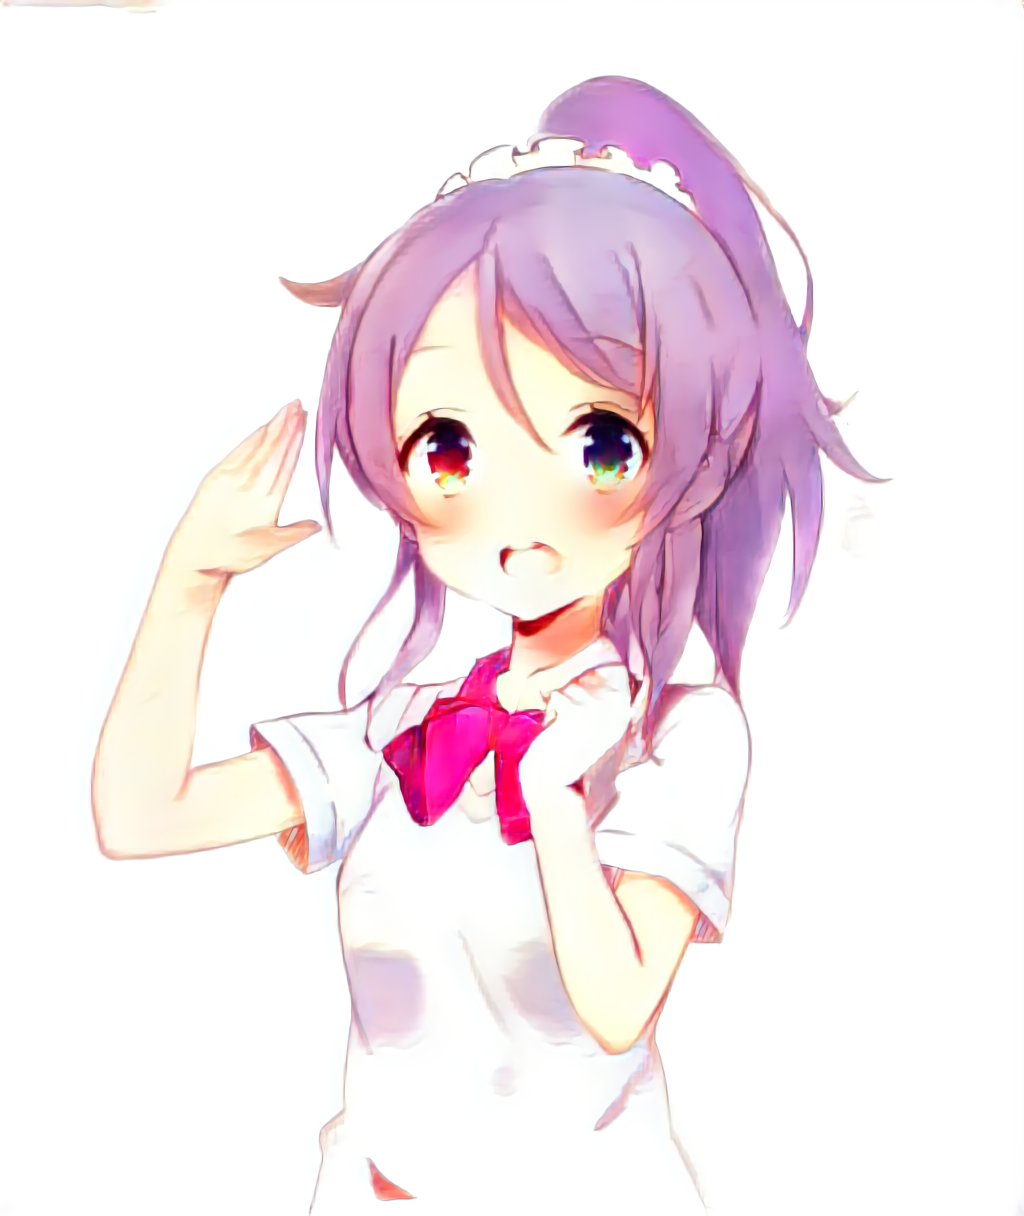
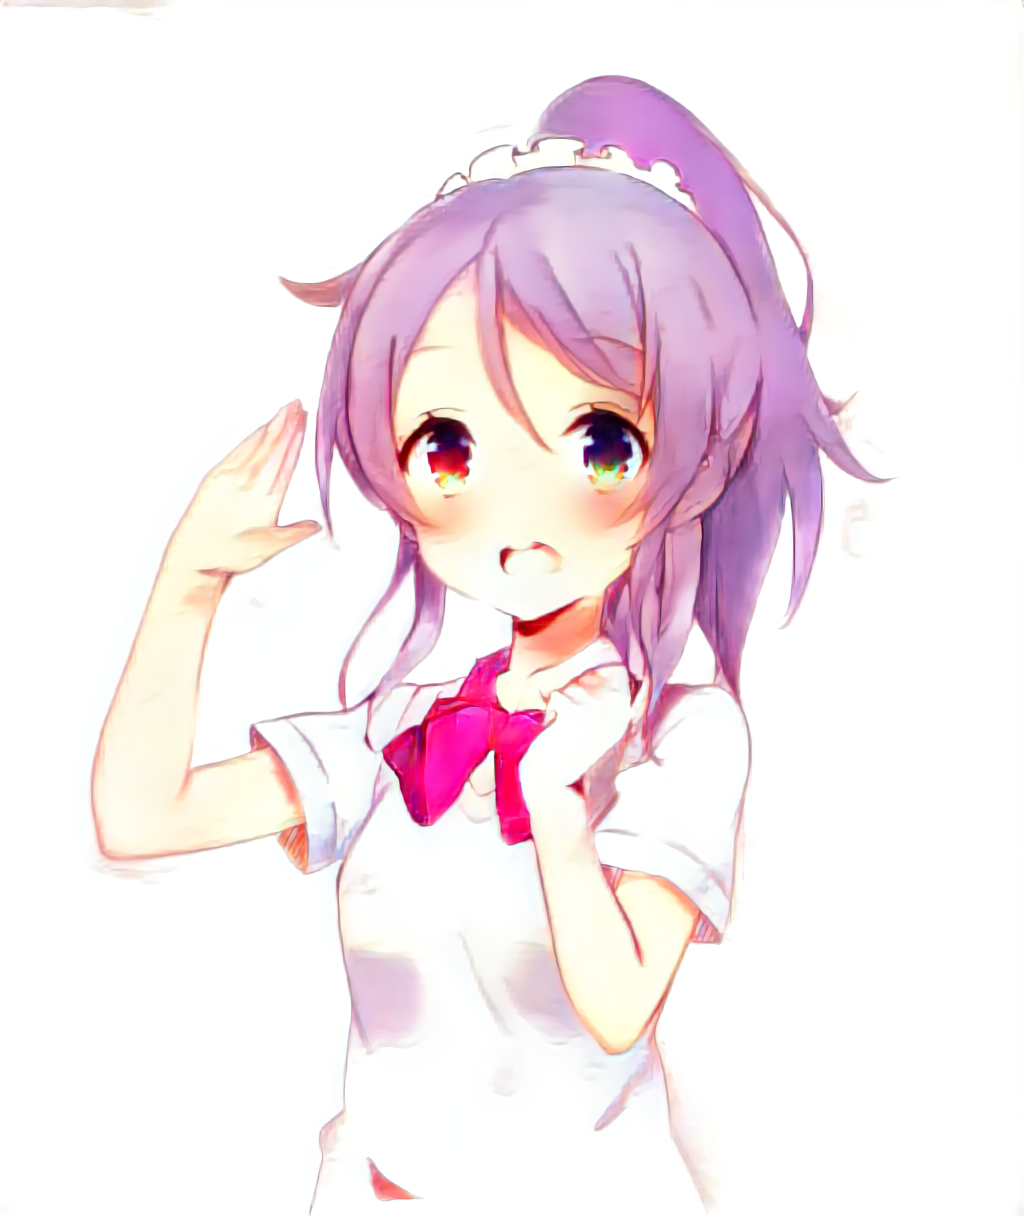
- Implement image improvement process

diff --git a/image_manipulation/style2paints/style2paints.py b/image_manipulation/style2paints/style2paints.py
@@ -11,12 +11,9 @@ import ailia
 # import original modules
 sys.path.append('../../util')
 from model_utils import check_and_download_models  # noqa: E402
+from detector_utils import load_image  # noqa: E402C
 
-from style2paint_utils import s_enhance, emph_line
-from style2paint_utils import k_resize, sk_resize, d_resize
-from style2paint_utils import min_k_down, mini_norm, hard_norm
-from style2paint_utils import opreate_normal_hint, ini_hint
-from style2paint_utils import de_line, blur_line, clip_15
+from style2paints_utils import *
 
 # ======================
 # Parameters
@@ -72,16 +69,19 @@ args = parser.parse_args()
 # Secondaty Functions
 # ======================
 
-def load_image(img_path):
-    sketch = cv2.imread(img_path, cv2.IMREAD_GRAYSCALE)
-    return sketch
 
-
-def preprocess(img):
+def preprocess(img, de_painting=None):
+    img = cv2.cvtColor(img, cv2.COLOR_BGR2GRAY)
     img_1024 = k_resize(img, 64)
 
-    img_256 = mini_norm(k_resize(min_k_down(img_1024, 2), 16))
-    img_128 = hard_norm(sk_resize(min_k_down(img_1024, 4), 32))
+    if de_painting is not None:
+        vice_sketch_1024 = cv2.cvtColor(de_painting, cv2.COLOR_BGR2GRAY)
+        vice_sketch_1024 = k_resize(vice_sketch_1024, 64)
+        img_256 = mini_norm(k_resize(min_k_down(vice_sketch_1024, 2), 16))
+        img_128 = hard_norm(sk_resize(min_k_down(vice_sketch_1024, 4), 32))
+    else:
+        img_256 = mini_norm(k_resize(min_k_down(img_1024, 2), 16))
+        img_128 = hard_norm(sk_resize(min_k_down(img_1024, 4), 32))
     # cv2.imwrite('./sketch.128.jpg', img_128)
     # cv2.imwrite('./sketch.256.jpg', img_256)
 
@@ -248,10 +248,41 @@ def predict(img, dict_net, options):
     reference = options["reference"]
     lineColor = options["lineColor"]
     line = options["line"]
-    for _ in range(len(points)):
-        points[_][1] = 1 - points[_][1]
 
-    img_1024, img_256, img_128 = preprocess(img)
+    img = min_resize(img, 512)
+    img = cv_denoise(img)
+    img = sensitive(img, s=5.0)
+    img = go_tail(dict_net['tail'], img)
+    cv2.imwrite('./sketch.improved.jpg', img)
+    img = cv2.imread('./sketch.improved.jpg')
+
+    std = cal_std(img)
+    print('std = ' + str(std))
+    need_de_painting = (std > 100.0) and method == 'rendering'
+    img2 = None
+    if method == 'recolorization' or need_de_painting:
+        img2 = go_passline(img)
+        img2 = min_k_down_c(img2, 2)
+        img2 = cv_denoise(img2)
+        img2 = go_tail(dict_net['tail'], img2)
+        img2 = sensitive(img2, s=5.0)
+        img2 = min_black(img2)
+
+    de_painting = None
+    if method == 'colorization':
+        img = min_black(img)
+        cv2.imwrite('sketch.colorization.jpg', img)
+    elif method == 'rendering':
+        img = eye_black(img)
+        cv2.imwrite('sketch.rendering.jpg', img)
+        if need_de_painting:
+            de_painting = img2
+            cv2.imwrite('de_painting.jpg', de_painting)
+    elif method == 'recolorization':
+        img = img2
+        cv2.imwrite('sketch.recolorization.jpg', img)
+
+    img_1024, img_256, img_128 = preprocess(img, de_painting)
     print('sketch prepared')
 
     x = np.zeros(shape=(img_128.shape[0], img_128.shape[1], 4), dtype=np.float32)
@@ -304,6 +335,8 @@ def recognize_from_image(filename, dict_net):
     img = load_image(filename)
     print(f'input image shape: {img.shape}')
 
+    img = cv2.cvtColor(img, cv2.COLOR_BGRA2BGR)
+
     json_file = '.'.join([filename.rsplit('.', 1)[0], 'json'])
     if not os.path.exists(json_file):
         raise FileNotFoundError('%s not exists' % json_file)
@@ -311,6 +344,9 @@ def recognize_from_image(filename, dict_net):
     with open(json_file) as f:
         options = json.load(f)
 
+    points = options["points"]
+    for _ in range(len(points)):
+        points[_][1] = 1 - points[_][1]
     options["method"] = options.get("method", "colorization")
     options["alpha"] = float(options.get("alpha", 0.0))
     if options.get("hasReference", False):

diff --git a/image_manipulation/style2paints/style2paints_utils.py b/image_manipulation/style2paints/style2paints_utils.py
@@ -6,9 +6,16 @@ __all__ = [
     'k_resize',
     'sk_resize',
     'd_resize',
+    'min_resize',
+    'go_passline',
     'min_k_down',
+    'min_k_down_c',
     'mini_norm',
     'hard_norm',
+    'sensitive',
+    'min_black',
+    'eye_black',
+    'cal_std',
     'opreate_normal_hint',
     's_enhance',
     'emph_line',
@@ -16,6 +23,7 @@ __all__ = [
     'de_line',
     'blur_line',
     'clip_15',
+    'cv_denoise',
 ]
 
 
@@ -81,9 +89,42 @@ def d_resize(x, d, fac=1.0):
     return y
 
 
+def min_resize(x, m):
+    if x.shape[0] < x.shape[1]:
+        s0 = m
+        s1 = int(float(m) / float(x.shape[0]) * float(x.shape[1]))
+    else:
+        s0 = int(float(m) / float(x.shape[1]) * float(x.shape[0]))
+        s1 = m
+    new_max = max(s1, s0)
+    raw_max = max(x.shape[0], x.shape[1])
+    if new_max < raw_max:
+        interpolation = cv2.INTER_AREA
+    else:
+        interpolation = cv2.INTER_LANCZOS4
+    y = cv2.resize(x, (s1, s0), interpolation=interpolation)
+    return y
+
+
+def go_passline(img):
+    o = img.astype(np.float32)
+    b = cv2.GaussianBlur(img, (7, 7), 0).astype(np.float32)
+    r = np.max(b - o, axis=2, keepdims=True)
+    r /= np.max(cv2.resize(r.clip(0, 255).astype(np.uint8), (64, 64), cv2.INTER_AREA))
+    r = (1 - r).clip(0, 1)
+    return np.tile((r * 255.0).clip(0, 255).astype(np.uint8), [1, 1, 3])
+
+
 def min_k_down(x, k):
     y = 255 - x.astype(np.float32)
     y = block_reduce(y, (k, k), np.max)
+    y = 255 - y
+    return y.clip(0, 255).astype(np.uint8)
+
+
+def min_k_down_c(x, k):
+    y = 255 - x.astype(np.float32)
+    y = block_reduce(y, (k, k, 1), np.max)
     y = 255 - y
     return y.clip(0, 255).astype(np.uint8)
 
@@ -106,6 +147,27 @@ def hard_norm(x):
     y[y < np.mean(y)] = 0
     y[y > 0] = 1
     return (255.0 - y * 255.0).astype(np.uint8)
+
+
+def sensitive(x, s=15.0):
+    y = x.astype(np.float32)
+    y -= s
+    y /= 255.0 - s * 2.0
+    y *= 255.0
+    return y.clip(0, 255).astype(np.uint8)
+
+
+def min_black(x):
+    return np.tile(np.min(x, axis=2, keepdims=True), [1, 1, 3])
+
+
+def eye_black(x):
+    return cv2.cvtColor(cv2.cvtColor(x, cv2.COLOR_RGB2GRAY), cv2.COLOR_GRAY2RGB)
+
+
+def cal_std(x):
+    y = (cv2.resize(x, (128, 128), cv2.INTER_AREA)).astype(np.float32)
+    return np.mean(np.var(y, axis=2))
 
 
 def opreate_normal_hint(gird, points, type, length):
@@ -162,3 +224,7 @@ def blur_line(x, y):
 
 def clip_15(x, s=15.0):
     return ((x - s) / (255.0 - s - s)).clip(0, 1) * 255.0
+
+
+def cv_denoise(x):
+    return cv2.fastNlMeansDenoisingColored(x, None, 3, 3, 7, 21)
